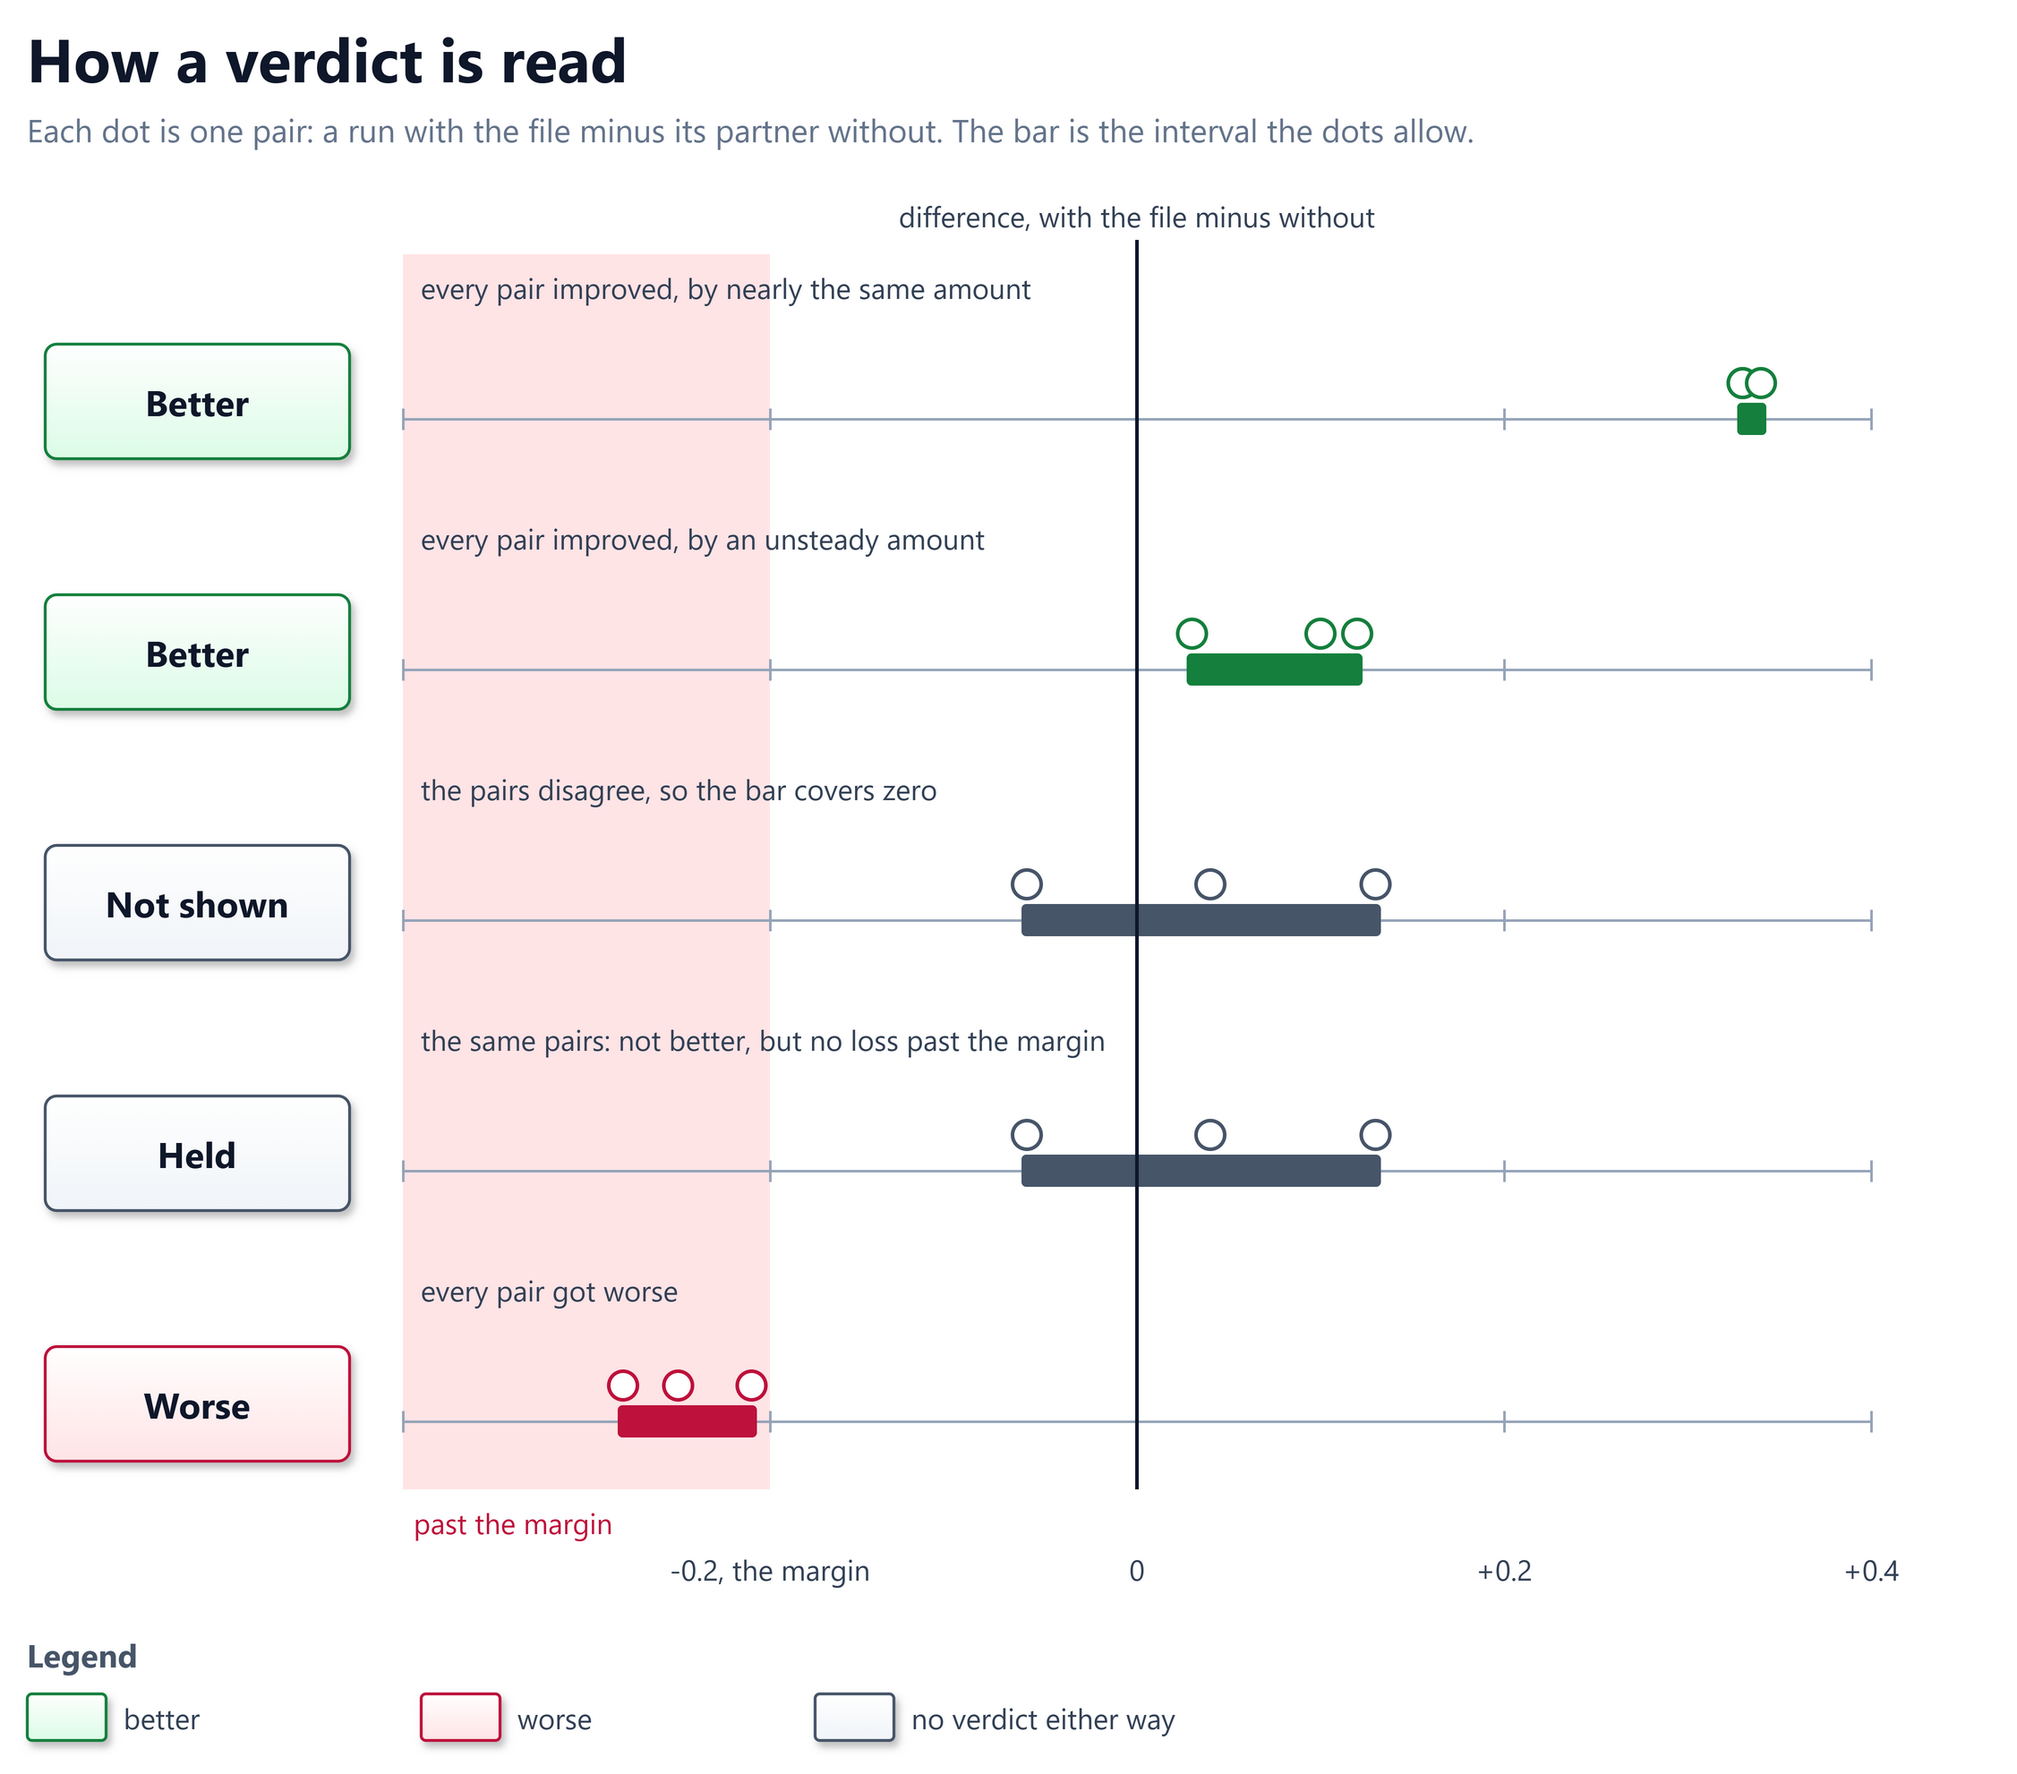
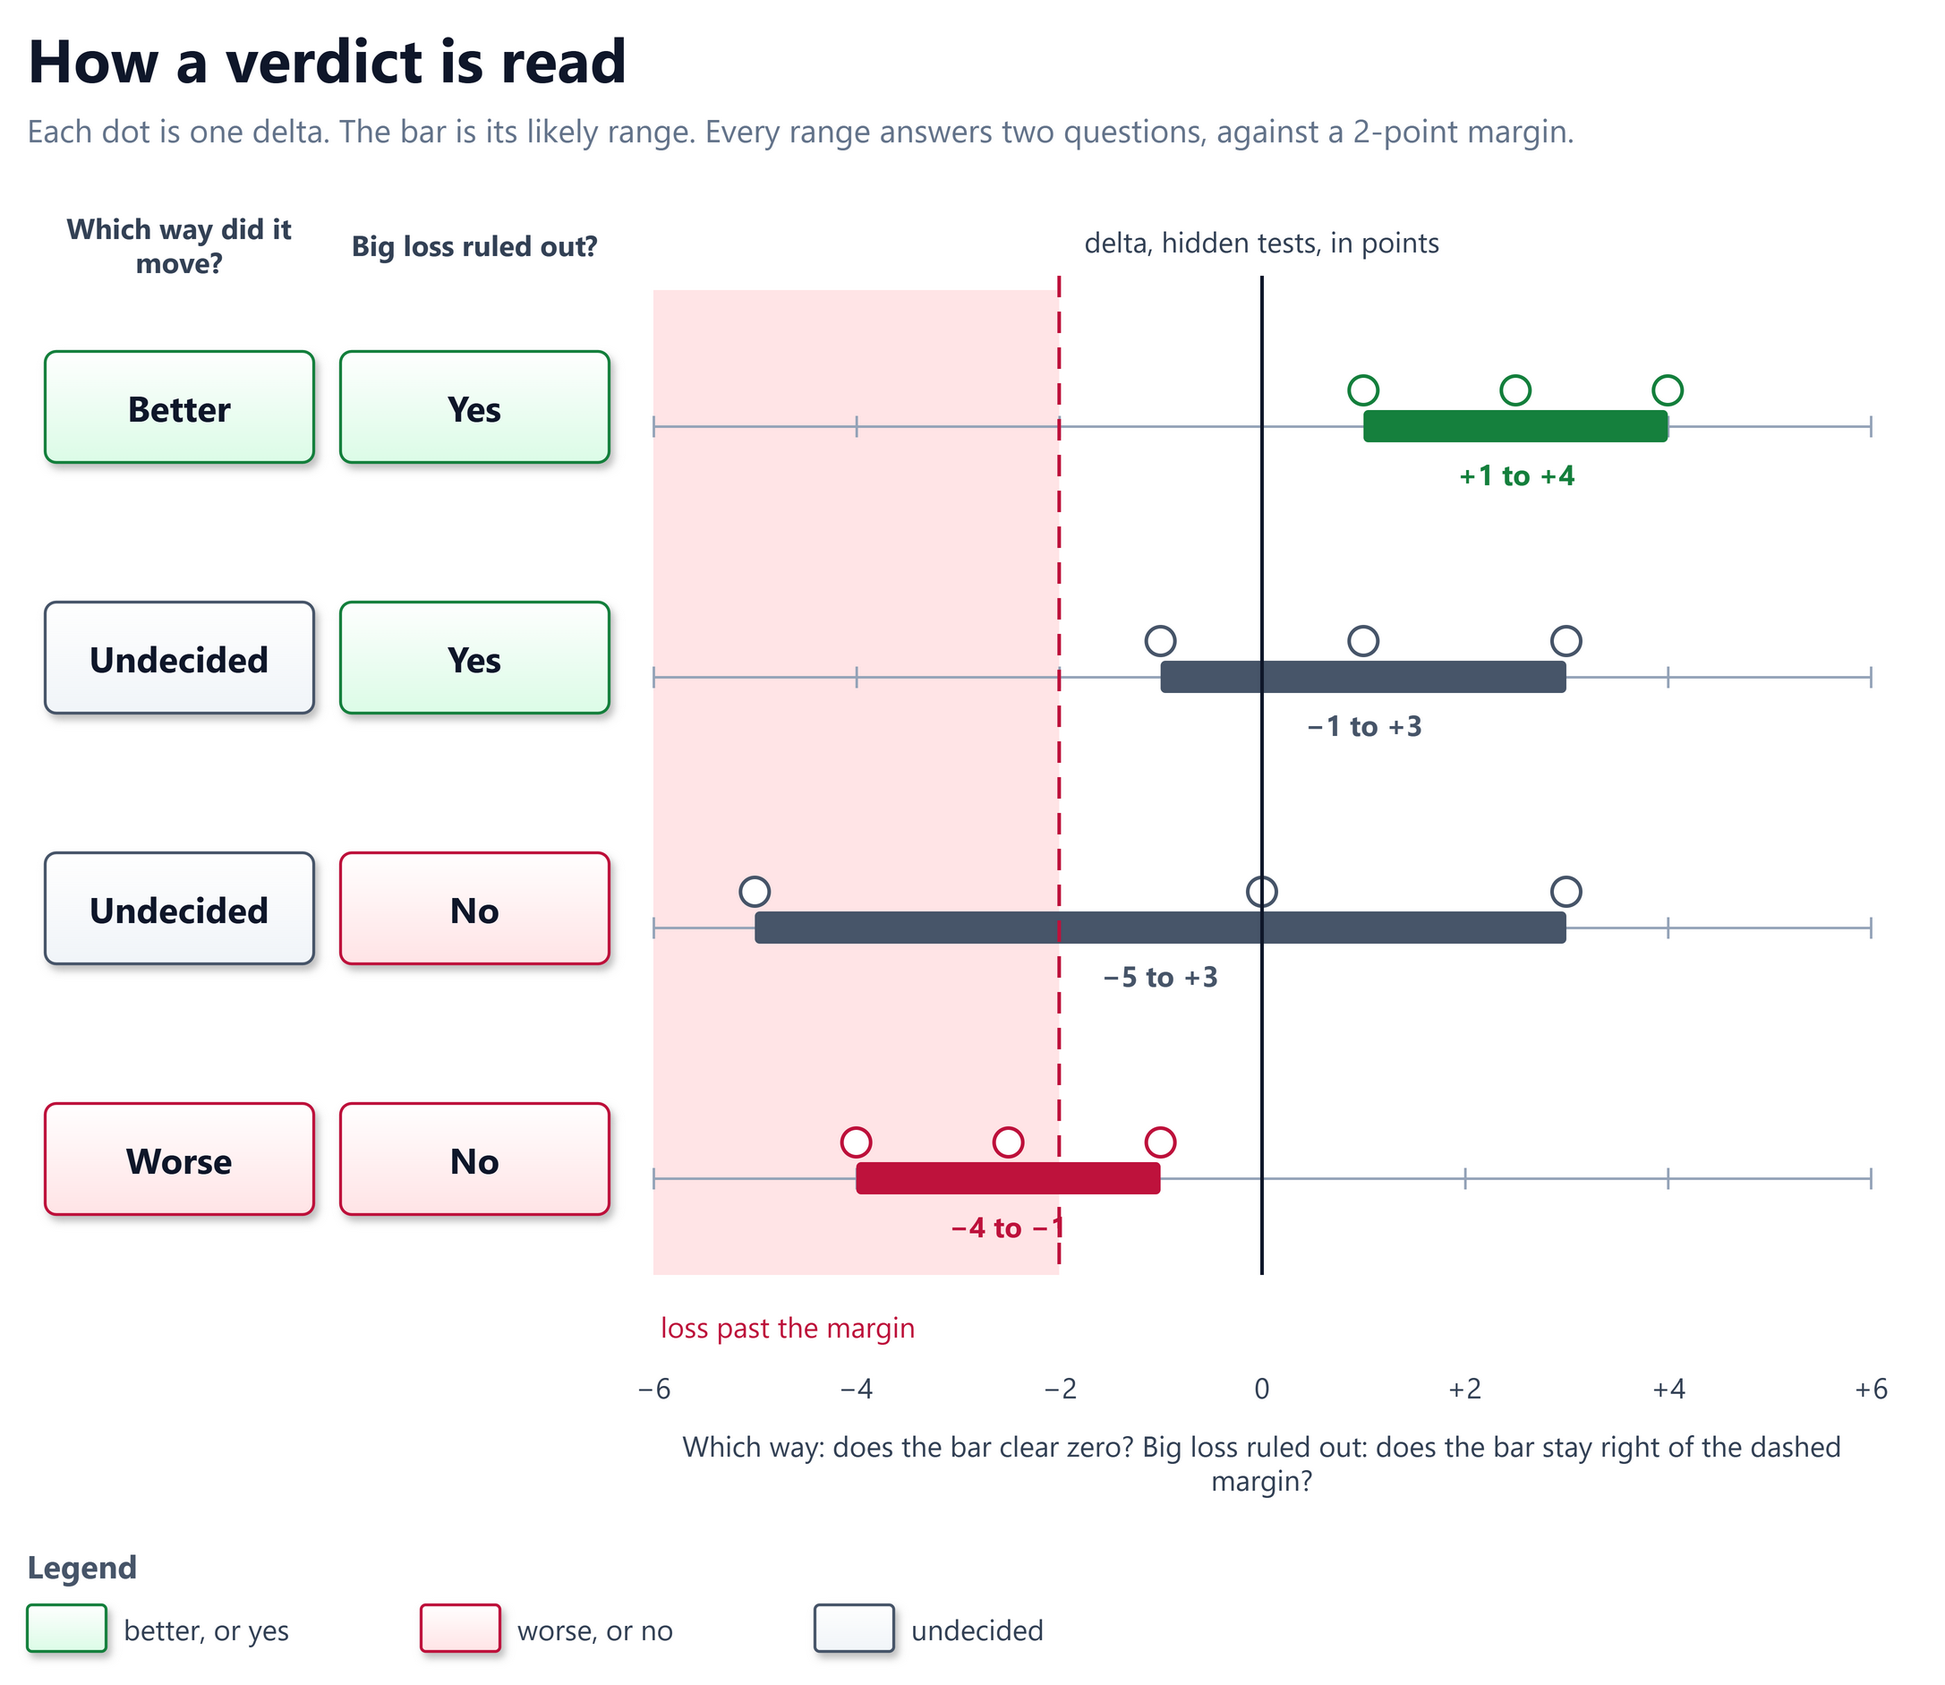
docs(primer): two verdict questions, undecided, runs for any K, and a shorter ending (#42)
* docs(primer): give every range in the verdict diagram both verdicts

The not shown and held rows used the same deltas, so they looked alike.
Each of four ranges now shows whether it changed the result and whether
it is at least as good, against the 2-point margin.

Claude-Session: https://claude.ai/code/session_01HVh8GVGd72WUJ3BvM7TXQn

* docs(primer): call the third verdict undecided

The primer and its diagrams say undecided where the design and the
reports say no improvement shown. The glossary links the two.

Claude-Session: https://claude.ai/code/session_01HVh8GVGd72WUJ3BvM7TXQn

* docs(primer): answer at least as good with yes or no

The first question becomes which way did it move, answered better, worse
or undecided. The second, is it at least as good, is answered yes, held,
or no, in the primer and the verdict diagram.

Claude-Session: https://claude.ai/code/session_01HVh8GVGd72WUJ3BvM7TXQn

* docs(primer): say not proven, not no, for at least as good

No read like worse. Not proven says the range could lose more than the
margin, which is all the check can say.

Claude-Session: https://claude.ai/code/session_01HVh8GVGd72WUJ3BvM7TXQn

* docs(primer): ask whether a big loss is ruled out

The second question becomes big loss ruled out, so yes and no are both
literally true. Held stays as the design's word for yes.

Claude-Session: https://claude.ai/code/session_01HVh8GVGd72WUJ3BvM7TXQn

* docs(primer): simplify the text under the verdict diagram
[…]

diff --git a/docs/primer.md b/docs/primer.md
@@ -126,11 +126,11 @@ Fixed in every run, so only the knobs can move the meters:
   every run. An agent cannot score cleaner by loosening its own lint rules
 - **The judge:** GPT-6 Astra at high effort, blind to the arm, reading
   each app three times
-- **Runs per arm:** 3, or 5 once when a result is close
+- **Runs per arm:** fixed by each round before it starts, 3 today
 
 ## 4. One round, start to finish
 
-![One round in four stages. Before the round, the project brief goes to the generator, which makes each arm's context file once with no person answering. In each run, a workspace holding SPEC.md and the arm's file goes to the AI agent, which builds the app in one session, and the app is frozen as it was left. Scoring reads six meters on each frozen app, each on its own and in any order: hidden tests, attack probes, the judge's scores, conventions, size and cost. Reading the result compares each run with the bare run of the same block, checks whether the difference would hold if the runs were redone, and gives one verdict per meter: better, worse or not shown. Consistency compares an arm's runs with each other](diagrams/round-flow.png)
+![One round in four stages. Before the round, the project brief goes to the generator, which makes each arm's context file once with no person answering. In each run, a workspace holding SPEC.md and the arm's file goes to the AI agent, which builds the app in one session, and the app is frozen as it was left. Scoring reads six meters on each frozen app, each on its own and in any order: hidden tests, attack probes, the judge's scores, conventions, size and cost. Reading the result compares each run with the bare run of the same block, checks whether the difference would hold if the runs were redone, and gives one verdict per meter: better, worse or undecided. Consistency compares an arm's runs with each other](diagrams/round-flow.png)
 
 ### 4.1 Before the round
 
@@ -163,10 +163,11 @@ own, in any order.
 ### 4.4 Reading the result
 
 1. **Compare with the bare run.** Each run with a context file is compared
-   with the run of the same block that had none: `inline-1` minus `none-1`.
+   with the run of the same block, see 5.1, that had none: `inline-1` minus
+   `none-1`.
 2. **Luck check.** The differences are checked for whether they would hold
    if the runs were redone.
-3. **Verdict.** Each meter gets one: better, worse or not shown.
+3. **Verdict.** Each meter gets one: better, worse or undecided.
 4. **Consistency.** The runs of one arm are also compared with each other.
    How alike they came out is the arm's **consistency**, read in %.
 
@@ -189,52 +190,43 @@ out, and those three decide.
 Three blocks are the smallest useful set, not a limit. The same pattern
 extends to any number K of blocks: 10 blocks give each arm 10 deltas, 20
 give 20. Each extra block adds one more run per arm, and the luck check
-gets sharper with every delta, as section 5.3 explains.
+gets sharper with every delta, as section 5.3 shows.
 
-### 5.2 The four verdicts
+### 5.2 Reading the bar
 
-![Five example rows, each with three dots for three pairs and a bar for the interval they allow. Two rows read Better: the bar lies wholly right of zero, once with the pairs nearly equal and once spread out. Not shown: the pairs disagree and the bar covers zero. Held: the same pairs, whose bar stays clear of the shaded loss past the margin. Worse: every pair got worse, and the bar lies wholly left of zero](diagrams/verdict.png)
+![Four example ranges of the hidden-test delta, each answering two questions against a margin of 2 points: which way did it move, and has a big loss been ruled out. Plus 1 to plus 4: better, and yes. Minus 1 to plus 3: undecided, because the bar covers zero, but yes, because it stays right of the margin. Minus 5 to plus 3: undecided, and no, because it reaches past the margin. Minus 4 to minus 1: worse, and no](diagrams/verdict.png)
 
-The bar is the luck check of the round-flow diagram. Its range is the
-**likely range**, which statisticians call a bootstrap interval: where the
-average difference would land if the runs were redone. The benchmark finds
-it by resampling the differences thousands of times.
+The bar is the luck check's **likely range**: where the average delta
+would land if the runs were redone. Statisticians call it a bootstrap
+interval.
 
-The verdicts answer two different questions.
+Each bar answers two questions:
 
-**Did the context file change the result?**
+| Question | Answer | Read from the bar |
+| -------- | ------ | ----------------- |
+| Which way did it move? | Better, worse or **undecided** | Better if the bar lies wholly above zero, worse if wholly below, undecided if it covers zero |
+| Big loss ruled out? | Yes or no | Yes if the bar stays above the **margin**, a loss fixed in advance. For hidden tests it is 2 points |
 
-| Verdict | Means | Does not mean |
-| ------- | ----- | ------------- |
-| **Better** | The whole range is a gain | That the gain is large |
-| **Worse** | The whole range is a loss | That the context file is useless |
-| **Not shown** | The range covers zero: some reruns would gain, some would lose | That the two are equal. It is undecided |
+Undecided does not mean equal: some reruns would gain and some would lose.
+A yes, which the design calls **held**, is what a trim of the templates
+needs, or round 5's question whether skills deliver what hybrid does: proof
+that a change is not much worse.
 
-**Is it at least as good?**
+### 5.3 How many runs it takes
 
-| Verdict | Means | Does not mean |
-| ------- | ----- | ------------- |
-| **Held** | Even the worst end of the range is a small loss, within a **margin** fixed in advance | That it improved |
+Each round fixes K, the runs per arm, before it starts. The more runs, the
+stronger the claim:
 
-Not shown says there is no proof it is better. Held says there is proof it
-is not much worse. For hidden tests the margin is 2 points:
+| Runs per arm | What a result can claim |
+| ------------ | ----------------------- |
+| 3 | A signal. Every report says so beside every number |
+| 6 | The fewest where every pair pointing one way counts as proof |
+| about 10 | Enough to catch an effect as big as the run-to-run noise |
 
-| Likely range | Changed the result? | At least as good? |
-| ------------ | ------------------- | ----------------- |
-| +1 to +4 points | Better | Held |
-| −1 to +3 points | Not shown | Held: at worst 1 point lost, within the 2 tolerated |
-| −5 to +3 points | Not shown | Not held: up to 5 points could be lost |
-
-Held is what a trim of the templates, or round 5's question whether skills
-deliver what hybrid does, needs: a way to show two things are as good as
-each other, which not shown alone can never do.
-
-### 5.3 Three runs are a signal
-
-Three runs describe a result. They do not prove it. Every report says so
-beside every number. When a result is close, the rules allow one step up
-to five runs, once, and never more. Running until a result appears would
-manufacture one.
+If a result is close, the rules allow adding runs once, for example from 3
+to 5. They forbid adding runs again and again until the answer comes out as
+hoped: with enough tries, luck alone would produce it, like flipping a coin
+until it lands heads.
 
 ## 6. The rules that keep it honest
 
@@ -249,36 +241,3 @@ manufacture one.
 | A run the provider cut off is re-run once | The provider cut it, not the agent |
 | A meter that turns out to measure something else is withdrawn | A wrong number is worse than no number |
 | A tool that scanned nothing records "missing", never zero | Zero must mean "clean", not "not measured" |
-
-## 7. What the evidence says so far
-
-What the evidence supports today, in the words of the
-[assessment](design/efficacy-assessment.md):
-
-- **Supported, as a signal:** a context file's conventions get followed more.
-- **Supported:** a context file does not break software that already works.
-- **Not supported:** a context file makes a strong model write better code.
-- **Contradicted:** using the templates costs little. The files made the
-  app up to 180 % bigger and most builds dearer.
-- **Contradicted:** a longer file is better. Length tracked cost, not
-  quality.
-
-## 8. What it cannot tell you yet
-
-- **One app.** Everything so far is `tariff`. A second app, `ledger`, is
-  kept sealed for the final claim.
-- **Three runs.** Every result is a signal, not proof.
-- **One agent.** Every build is Claude Code. Another agent reading
-  `AGENTS.md` is untested.
-- **One sitting.** No run yet follows a project over months, which is
-  where the templates claim to matter most.
-
-## 9. Where to go next
-
-| To | Read |
-| -- | ---- |
-| See every rule and threshold | [The design](design/efficacy-benchmark.md) |
-| See what the evidence means for the templates | [The assessment](design/efficacy-assessment.md) |
-| Understand how the parts fit together | [The architecture](architecture/01-introduction-and-goals.md) |
-| Follow a person through a task | [User journeys](journeys/index.md) |
-| Run it | [The harness guide](guides/efficacy-harness.md) |

diff --git a/docs/architecture/12-glossary.md b/docs/architecture/12-glossary.md
@@ -7,6 +7,7 @@ is in the design, [efficacy-benchmark.md](../design/efficacy-benchmark.md).
 | ---- | ---------- |
 | Adherence checklist | Thirteen conventions scored on every trial, the bare one included: lint-clean, type-clean, formatted, 80 % coverage, bounded complexity, a `src/` layout, one error hierarchy, no `print` in the library, a library logger with a null handler, packaging metadata, a usable README, discoverable tests and no ticket citations in code. A quality checklist, not a template checklist |
 | Arm | One setting of the context-file knob, such as `none` or `hybrid`. Every arm runs once per block |
+| Blind judge | The judge as the primer names it: it reads each app without knowing which arm built it. See Judge |
 | Block | One pass over every arm, back to back. Trials in one block are paired. Round 5 also uses lettered blocks A, B and C for its three settings of spec and model |
 | Blocked | A trial the provider cut off: a usage limit, a rate limit, a crash or no result. Moved to `void/` and re-run once in its place |
 | Bootstrap interval | The range of mean differences a resampling of the K differences produces: 10,000 resamples, 95 %, bias-corrected and accelerated, at a recorded seed |
@@ -27,6 +28,7 @@ is in the design, [efficacy-benchmark.md](../design/efficacy-benchmark.md).
 | Generator | The non-interactive invocation that turns the brief and a chain into an arm's file. Nobody answers its questions |
 | Held | No improvement shown, and the whole interval inside the metric's margin: nothing got worse. A non-inferiority reading |
 | Hidden suite | The acceptance tests in the private `braboj/tariff-hidden-suite`, cloned only at scoring |
+| Hidden tests | The primer's name for the hidden suite. See Hidden suite |
 | Hybrid model | A context file that copies in the rules whose breaking is silent and no tool enforces, and names the rest, with the templates vendored beside it |
 | Inline model | A context file that copies every adopted rule in |
 | Judge | The model that scores a blind bundle 1 to 5 per rubric row, with a quoted line as evidence. From round 5 it is `gpt-6-astra` through `codex exec` at effort `high`. Rounds 3 and 4 used `claude-opus-5-5` |
@@ -53,6 +55,7 @@ is in the design, [efficacy-benchmark.md](../design/efficacy-benchmark.md).
 | Templates source | A git clone of `solid-ai-templates` or a fork, named by `--templates`. The arms are built from it and the reports land in it |
 | Tool lock | `tool-lock.txt`: the scoring tools' versions, frozen from the first trial scored and installed for every other |
 | Trial | One agent session on one arm in one block, named `<arm>-<block>`, such as `short-2` |
+| Undecided | The primer's word for no improvement shown: the likely range covers zero, so neither better nor worse can be claimed |
 | Verdict | Better, worse or no improvement shown, per metric per contrast, from where the interval lies |
 | Verdict vector | Every verdict of a round, printed at the end of the report |
 | Void | `void/` in the run root, where a blocked or reached trial's workspace is kept and never scored |
